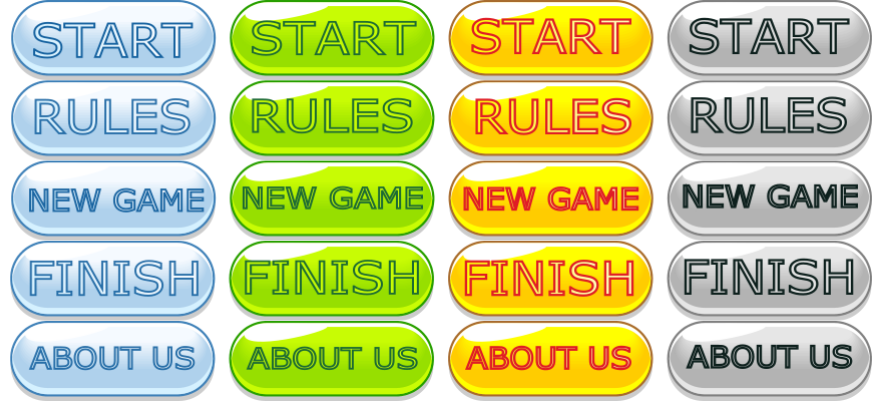
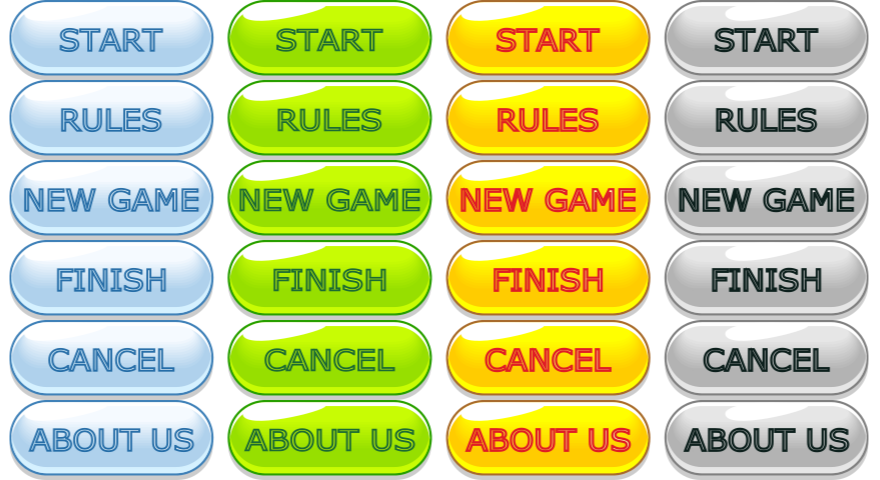
replaced bared JButtons with imaged buttons

diff --git a/MainMenuSettingsPanel.java b/MainMenuSettingsPanel.java
@@ -22,9 +22,12 @@ public class MainMenuSettingsPanel extends JPanel {
 	
 	private static final int BUTTON_IMAGE_WIDTH = 220;
 	private static final int BUTTON_IMAGE_HEIGHT = 80;
+	private static final int SMALL_BUTTON_IMAGE_WIDTH = 110;
+	private static final int SMALL_BUTTON_IMAGE_HEIGHT = 40;
 	private static final int MUSIC_BUTTON_IMAGE_WIDTH = 85;
 	private static final String BUTTONS_IMAGE_PATH = "images//buttons.png";
 	private static final String MUSIC_BUTTON_IMAGE_PATH = "images//music_button.png";
+	private static final String SMALL_BUTTONS_IMAGE_PATH = "images//sm_buttons.png";
 	private MainMenu mainMenu;
     private JButton startButton;
 	private JButton cancelButton;
@@ -37,18 +40,35 @@ public class MainMenuSettingsPanel extends JPanel {
 	private JButton boardLengthButton3;
 	private JButton[] boardLengthButtons;
     private JButton musicButton;
-    private BufferedImage allButtons;
+    private BufferedImage normalButtons;
     private BufferedImage musicButtons;
+    private BufferedImage smallButtons;
     private ImageIcon gStart;
     private ImageIcon yStart;
     private ImageIcon gCancel;
     private ImageIcon yCancel;
-    private ImageIcon gTeam;
-    private ImageIcon yTeam;
-    private ImageIcon gnTeam;
-    private ImageIcon gBoardLength;
-    private ImageIcon yBoardLength;
-    private ImageIcon gnBoardLenght;
+    private ImageIcon gTeam1;
+    private ImageIcon yTeam1;
+    private ImageIcon gnTeam1;
+    private ImageIcon gTeam2;
+    private ImageIcon yTeam2;
+    private ImageIcon gnTeam2;
+    private ImageIcon gTeam3;
+    private ImageIcon yTeam3;
+    private ImageIcon gnTeam3;
+    private ImageIcon gBoardLength1;
+    private ImageIcon yBoardLength1;
+    private ImageIcon gnBoardLength1;
+    private ImageIcon gBoardLength2;
+    private ImageIcon yBoardLength2;
+    private ImageIcon gnBoardLength2;
+    private ImageIcon gBoardLength3;
+    private ImageIcon yBoardLength3;
+    private ImageIcon gnBoardLength3;
+    private ImageIcon[] gTeams;
+    private ImageIcon[] gnTeams;
+    private ImageIcon[] gBoardLengths;
+    private ImageIcon[] gnBoardLengths;
     private ImageIcon gMusic;
     private ImageIcon yMusic;
     private ImageIcon gnMusic;
@@ -65,13 +85,40 @@ public class MainMenuSettingsPanel extends JPanel {
 	
 	private void initImages() {
     	try {
-    		allButtons = ImageIO.read(new File(BUTTONS_IMAGE_PATH));
+    		normalButtons = ImageIO.read(new File(BUTTONS_IMAGE_PATH));
     		musicButtons = ImageIO.read(new File(MUSIC_BUTTON_IMAGE_PATH));
-    		gStart = new ImageIcon(allButtons.getSubimage(3*BUTTON_IMAGE_WIDTH, 0*BUTTON_IMAGE_HEIGHT, BUTTON_IMAGE_WIDTH, BUTTON_IMAGE_HEIGHT));
-    		yStart = new ImageIcon(allButtons.getSubimage(2*BUTTON_IMAGE_WIDTH, 0*BUTTON_IMAGE_HEIGHT, BUTTON_IMAGE_WIDTH, BUTTON_IMAGE_HEIGHT));
+    		smallButtons = ImageIO.read(new File(SMALL_BUTTONS_IMAGE_PATH));
+    		gStart = new ImageIcon(normalButtons.getSubimage(3*BUTTON_IMAGE_WIDTH, 0*BUTTON_IMAGE_HEIGHT, BUTTON_IMAGE_WIDTH, BUTTON_IMAGE_HEIGHT));
+    		yStart = new ImageIcon(normalButtons.getSubimage(2*BUTTON_IMAGE_WIDTH, 0*BUTTON_IMAGE_HEIGHT, BUTTON_IMAGE_WIDTH, BUTTON_IMAGE_HEIGHT));
+    		gCancel = new ImageIcon(normalButtons.getSubimage(3*BUTTON_IMAGE_WIDTH, 4*BUTTON_IMAGE_HEIGHT, BUTTON_IMAGE_WIDTH, BUTTON_IMAGE_HEIGHT));
+    		yCancel = new ImageIcon(normalButtons.getSubimage(2*BUTTON_IMAGE_WIDTH, 4*BUTTON_IMAGE_HEIGHT, BUTTON_IMAGE_WIDTH, BUTTON_IMAGE_HEIGHT));
     		gMusic = new ImageIcon(musicButtons.getSubimage(3*MUSIC_BUTTON_IMAGE_WIDTH, 0, MUSIC_BUTTON_IMAGE_WIDTH, BUTTON_IMAGE_HEIGHT));
     		yMusic = new ImageIcon(musicButtons.getSubimage(2*MUSIC_BUTTON_IMAGE_WIDTH, 0, MUSIC_BUTTON_IMAGE_WIDTH, BUTTON_IMAGE_HEIGHT));
     		gnMusic = new ImageIcon(musicButtons.getSubimage(1*MUSIC_BUTTON_IMAGE_WIDTH, 0, MUSIC_BUTTON_IMAGE_WIDTH, BUTTON_IMAGE_HEIGHT));
+    		gTeam1 = new ImageIcon(smallButtons.getSubimage(3*SMALL_BUTTON_IMAGE_WIDTH, 0*SMALL_BUTTON_IMAGE_HEIGHT, SMALL_BUTTON_IMAGE_WIDTH, SMALL_BUTTON_IMAGE_HEIGHT));
+    		yTeam1 = new ImageIcon(smallButtons.getSubimage(2*SMALL_BUTTON_IMAGE_WIDTH, 0*SMALL_BUTTON_IMAGE_HEIGHT, SMALL_BUTTON_IMAGE_WIDTH, SMALL_BUTTON_IMAGE_HEIGHT));
+    		gnTeam1 = new ImageIcon(smallButtons.getSubimage(1*SMALL_BUTTON_IMAGE_WIDTH, 0*SMALL_BUTTON_IMAGE_HEIGHT, SMALL_BUTTON_IMAGE_WIDTH, SMALL_BUTTON_IMAGE_HEIGHT));
+    		gTeam2 = new ImageIcon(smallButtons.getSubimage(3*SMALL_BUTTON_IMAGE_WIDTH, 1*SMALL_BUTTON_IMAGE_HEIGHT, SMALL_BUTTON_IMAGE_WIDTH, SMALL_BUTTON_IMAGE_HEIGHT));
+    		yTeam2 = new ImageIcon(smallButtons.getSubimage(2*SMALL_BUTTON_IMAGE_WIDTH, 1*SMALL_BUTTON_IMAGE_HEIGHT, SMALL_BUTTON_IMAGE_WIDTH, SMALL_BUTTON_IMAGE_HEIGHT));
+    		gnTeam2 = new ImageIcon(smallButtons.getSubimage(1*SMALL_BUTTON_IMAGE_WIDTH, 1*SMALL_BUTTON_IMAGE_HEIGHT, SMALL_BUTTON_IMAGE_WIDTH, SMALL_BUTTON_IMAGE_HEIGHT));
+    		gTeam3 = new ImageIcon(smallButtons.getSubimage(3*SMALL_BUTTON_IMAGE_WIDTH, 2*SMALL_BUTTON_IMAGE_HEIGHT, SMALL_BUTTON_IMAGE_WIDTH, SMALL_BUTTON_IMAGE_HEIGHT));
+    		yTeam3 = new ImageIcon(smallButtons.getSubimage(2*SMALL_BUTTON_IMAGE_WIDTH, 2*SMALL_BUTTON_IMAGE_HEIGHT, SMALL_BUTTON_IMAGE_WIDTH, SMALL_BUTTON_IMAGE_HEIGHT));
+    		gnTeam3 = new ImageIcon(smallButtons.getSubimage(1*SMALL_BUTTON_IMAGE_WIDTH, 2*SMALL_BUTTON_IMAGE_HEIGHT, SMALL_BUTTON_IMAGE_WIDTH, SMALL_BUTTON_IMAGE_HEIGHT));
+    		gBoardLength1 = new ImageIcon(smallButtons.getSubimage(3*SMALL_BUTTON_IMAGE_WIDTH, 3*SMALL_BUTTON_IMAGE_HEIGHT, SMALL_BUTTON_IMAGE_WIDTH, SMALL_BUTTON_IMAGE_HEIGHT));
+    		yBoardLength1 = new ImageIcon(smallButtons.getSubimage(2*SMALL_BUTTON_IMAGE_WIDTH, 3*SMALL_BUTTON_IMAGE_HEIGHT, SMALL_BUTTON_IMAGE_WIDTH, SMALL_BUTTON_IMAGE_HEIGHT));
+    		gnBoardLength1 = new ImageIcon(smallButtons.getSubimage(1*SMALL_BUTTON_IMAGE_WIDTH, 3*SMALL_BUTTON_IMAGE_HEIGHT, SMALL_BUTTON_IMAGE_WIDTH, SMALL_BUTTON_IMAGE_HEIGHT));
+    		gBoardLength2 = new ImageIcon(smallButtons.getSubimage(3*SMALL_BUTTON_IMAGE_WIDTH, 4*SMALL_BUTTON_IMAGE_HEIGHT, SMALL_BUTTON_IMAGE_WIDTH, SMALL_BUTTON_IMAGE_HEIGHT));
+    		yBoardLength2 = new ImageIcon(smallButtons.getSubimage(2*SMALL_BUTTON_IMAGE_WIDTH, 4*SMALL_BUTTON_IMAGE_HEIGHT, SMALL_BUTTON_IMAGE_WIDTH, SMALL_BUTTON_IMAGE_HEIGHT));
+    		gnBoardLength2 = new ImageIcon(smallButtons.getSubimage(1*SMALL_BUTTON_IMAGE_WIDTH, 4*SMALL_BUTTON_IMAGE_HEIGHT, SMALL_BUTTON_IMAGE_WIDTH, SMALL_BUTTON_IMAGE_HEIGHT));
+    		gBoardLength3 = new ImageIcon(smallButtons.getSubimage(3*SMALL_BUTTON_IMAGE_WIDTH, 5*SMALL_BUTTON_IMAGE_HEIGHT, SMALL_BUTTON_IMAGE_WIDTH, SMALL_BUTTON_IMAGE_HEIGHT));
+    		yBoardLength3 = new ImageIcon(smallButtons.getSubimage(2*SMALL_BUTTON_IMAGE_WIDTH, 5*SMALL_BUTTON_IMAGE_HEIGHT, SMALL_BUTTON_IMAGE_WIDTH, SMALL_BUTTON_IMAGE_HEIGHT));
+    		gnBoardLength3 = new ImageIcon(smallButtons.getSubimage(1*SMALL_BUTTON_IMAGE_WIDTH, 5*SMALL_BUTTON_IMAGE_HEIGHT, SMALL_BUTTON_IMAGE_WIDTH, SMALL_BUTTON_IMAGE_HEIGHT));
+    		
+    		gTeams = new ImageIcon[]{gTeam1, gTeam2, gTeam3};
+    		gnTeams = new ImageIcon[]{gnTeam1, gnTeam2, gnTeam3};
+    		
+    		gBoardLengths = new ImageIcon[]{gBoardLength1, gBoardLength2, gBoardLength3};
+    		gnBoardLengths = new ImageIcon[]{gnBoardLength1, gnBoardLength2, gnBoardLength3};
 		} catch (IOException e) {
 			e.printStackTrace();
 		}
@@ -116,10 +163,12 @@ public class MainMenuSettingsPanel extends JPanel {
 	private class OnTeamsButtonClickedListener implements ActionListener {
 		@Override
 		public void actionPerformed(ActionEvent e) {
-			for (JButton jb : teamsButtons) {
-//				jb.setIcon(defaultIcon);
+			for (int i = 0; i < teamsButtons.length; i++) {
+				teamsButtons[i].setIcon(gTeams[i]);
+				if (((JButton) e.getSource()).equals(teamsButtons[i])) {
+					((JButton) e.getSource()).setIcon(gnTeams[i]);
+				}
 			}
-//			((JButton) e.getSource()).setIcon(defaultIcon);
 			String numberOfTeams = ((JButton) e.getSource()).getName();
 			ConfigurationManager.getConfigurationManager().getConfiguration().setNumberOfTeams(Integer.parseInt(numberOfTeams));
 			System.out.println("# of Teams: " + ConfigurationManager.getConfigurationManager().getConfiguration().getNumberOfTeams());
@@ -129,10 +178,12 @@ public class MainMenuSettingsPanel extends JPanel {
 	private class OnBoardLengthButtonClickedListener implements ActionListener {
 		@Override
 		public void actionPerformed(ActionEvent e) {
-			for (JButton jb : boardLengthButtons) {
-//				jb.setIcon(defaultIcon);
+			for (int i = 0; i < boardLengthButtons.length; i++) {
+				boardLengthButtons[i].setIcon(gBoardLengths[i]);
+				if (((JButton) e.getSource()).equals(boardLengthButtons[i])) {
+					((JButton) e.getSource()).setIcon(gnBoardLengths[i]);
+				}
 			}
-//			((JButton) e.getSource()).setIcon(defaultIcon);
 			String boardLength = ((JButton) e.getSource()).getName();
 			ConfigurationManager.getConfigurationManager().getConfiguration().setBoardLenght(boardLength);
 			System.out.println("Board Length: " + ConfigurationManager.getConfigurationManager().getConfiguration().getBoardLenght());
@@ -156,29 +207,28 @@ public class MainMenuSettingsPanel extends JPanel {
 		startButton.setRolloverEnabled(true);
 		startButton.addActionListener(new OnStartButtonClickedListener());
 
-//		cancelButton = new javax.swing.JButton(gRules);
-		cancelButton = new javax.swing.JButton("CANCEL");
-//		cancelButton.setBorder(BorderFactory.createEmptyBorder());
-//		cancelButton.setContentAreaFilled(false);
-//		cancelButton.setRolloverIcon(yRules);
-//		cancelButton.setRolloverEnabled(true);
+		cancelButton = new javax.swing.JButton(gCancel);
+		cancelButton.setBorder(BorderFactory.createEmptyBorder());
+		cancelButton.setContentAreaFilled(false);
+		cancelButton.setRolloverIcon(yCancel);
+		cancelButton.setRolloverEnabled(true);
 		cancelButton.addActionListener(new OnCancelButtonClickedListener());
 		
-		teamsButton1 = new javax.swing.JButton("2");
-//		teamsButton1.setBorder(BorderFactory.createEmptyBorder());
-//		teamsButton1.setContentAreaFilled(false);
+		teamsButton1 = new javax.swing.JButton(gTeam1);
+		teamsButton1.setBorder(BorderFactory.createEmptyBorder());
+		teamsButton1.setContentAreaFilled(false);
 		teamsButton1.setSize(new java.awt.Dimension(110, 40));
 		teamsButton1.setName("2");
 		
-		teamsButton2 = new javax.swing.JButton("3");
-//		teamsButton2.setBorder(BorderFactory.createEmptyBorder());
-//		teamsButton2.setContentAreaFilled(false);
+		teamsButton2 = new javax.swing.JButton(gTeam2);
+		teamsButton2.setBorder(BorderFactory.createEmptyBorder());
+		teamsButton2.setContentAreaFilled(false);
 		teamsButton2.setSize(new java.awt.Dimension(110, 40));
 		teamsButton2.setName("3");
 		
-		teamsButton3 = new javax.swing.JButton("4");
-//		teamsButton3.setBorder(BorderFactory.createEmptyBorder());
-//		teamsButton3.setContentAreaFilled(false);
+		teamsButton3 = new javax.swing.JButton(gTeam3);
+		teamsButton3.setBorder(BorderFactory.createEmptyBorder());
+		teamsButton3.setContentAreaFilled(false);
 		teamsButton3.setSize(new java.awt.Dimension(110, 40));
 		teamsButton3.setName("4");
         
@@ -187,21 +237,21 @@ public class MainMenuSettingsPanel extends JPanel {
 			jb.addActionListener(new OnTeamsButtonClickedListener());
 		}
 		
-		boardLengthButton1 = new javax.swing.JButton("Short");
-//		boardLengthButton1.setBorder(BorderFactory.createEmptyBorder());
-//		boardLengthButton1.setContentAreaFilled(false);
+		boardLengthButton1 = new javax.swing.JButton(gBoardLength1);
+		boardLengthButton1.setBorder(BorderFactory.createEmptyBorder());
+		boardLengthButton1.setContentAreaFilled(false);
 		boardLengthButton1.setSize(new java.awt.Dimension(110, 40));
 		boardLengthButton1.setName("v");
 		
-		boardLengthButton2 = new javax.swing.JButton("Medium");
-//		boardLengthButton2.setBorder(BorderFactory.createEmptyBorder());
-//		boardLengthButton2.setContentAreaFilled(false);
+		boardLengthButton2 = new javax.swing.JButton(gBoardLength2);
+		boardLengthButton2.setBorder(BorderFactory.createEmptyBorder());
+		boardLengthButton2.setContentAreaFilled(false);
 		boardLengthButton2.setSize(new java.awt.Dimension(110, 40));
 		boardLengthButton2.setName("Medium");
 		
-		boardLengthButton3 = new javax.swing.JButton("Long");
-//		boardLengthButton3.setBorder(BorderFactory.createEmptyBorder());
-//		boardLengthButton3.setContentAreaFilled(false);
+		boardLengthButton3 = new javax.swing.JButton(gBoardLength3);
+		boardLengthButton3.setBorder(BorderFactory.createEmptyBorder());
+		boardLengthButton3.setContentAreaFilled(false);
 		boardLengthButton3.setSize(new java.awt.Dimension(110, 40));
 		boardLengthButton3.setName("Long");
         

diff --git a/MainMenuButtonsPanel.java b/MainMenuButtonsPanel.java
@@ -23,7 +23,7 @@ public class MainMenuButtonsPanel extends JPanel {
 	private JButton rulesButton;
     private JButton aboutUsButton;
     private JButton musicButton;
-    private BufferedImage allButtons;
+    private BufferedImage normalButtons;
     private BufferedImage musicButtons;
     private ImageIcon gNewGame;
     private ImageIcon yNewGame;
@@ -46,14 +46,14 @@ public class MainMenuButtonsPanel extends JPanel {
     
 	private void initImages() {
     	try {
-    		allButtons = ImageIO.read(new File(BUTTONS_IMAGE_PATH));
+    		normalButtons = ImageIO.read(new File(BUTTONS_IMAGE_PATH));
     		musicButtons = ImageIO.read(new File(MUSIC_BUTTON_IMAGE_PATH));
-    		gNewGame = new ImageIcon(allButtons.getSubimage(3*BUTTON_IMAGE_WIDTH, 2*BUTTON_IMAGE_HEIGHT, BUTTON_IMAGE_WIDTH, BUTTON_IMAGE_HEIGHT));
-    		yNewGame = new ImageIcon(allButtons.getSubimage(2*BUTTON_IMAGE_WIDTH, 2*BUTTON_IMAGE_HEIGHT, BUTTON_IMAGE_WIDTH, BUTTON_IMAGE_HEIGHT));
-    		gRules = new ImageIcon(allButtons.getSubimage(3*BUTTON_IMAGE_WIDTH, 1*BUTTON_IMAGE_HEIGHT, BUTTON_IMAGE_WIDTH, BUTTON_IMAGE_HEIGHT));
-    		yRules = new ImageIcon(allButtons.getSubimage(2*BUTTON_IMAGE_WIDTH, 1*BUTTON_IMAGE_HEIGHT, BUTTON_IMAGE_WIDTH, BUTTON_IMAGE_HEIGHT));
-    		gAboutUs = new ImageIcon(allButtons.getSubimage(3*BUTTON_IMAGE_WIDTH, 4*BUTTON_IMAGE_HEIGHT, BUTTON_IMAGE_WIDTH, BUTTON_IMAGE_HEIGHT));
-    		yAboutUs = new ImageIcon(allButtons.getSubimage(2*BUTTON_IMAGE_WIDTH, 4*BUTTON_IMAGE_HEIGHT, BUTTON_IMAGE_WIDTH, BUTTON_IMAGE_HEIGHT));
+    		gNewGame = new ImageIcon(normalButtons.getSubimage(3*BUTTON_IMAGE_WIDTH, 2*BUTTON_IMAGE_HEIGHT, BUTTON_IMAGE_WIDTH, BUTTON_IMAGE_HEIGHT));
+    		yNewGame = new ImageIcon(normalButtons.getSubimage(2*BUTTON_IMAGE_WIDTH, 2*BUTTON_IMAGE_HEIGHT, BUTTON_IMAGE_WIDTH, BUTTON_IMAGE_HEIGHT));
+    		gRules = new ImageIcon(normalButtons.getSubimage(3*BUTTON_IMAGE_WIDTH, 1*BUTTON_IMAGE_HEIGHT, BUTTON_IMAGE_WIDTH, BUTTON_IMAGE_HEIGHT));
+    		yRules = new ImageIcon(normalButtons.getSubimage(2*BUTTON_IMAGE_WIDTH, 1*BUTTON_IMAGE_HEIGHT, BUTTON_IMAGE_WIDTH, BUTTON_IMAGE_HEIGHT));
+    		gAboutUs = new ImageIcon(normalButtons.getSubimage(3*BUTTON_IMAGE_WIDTH, 5*BUTTON_IMAGE_HEIGHT, BUTTON_IMAGE_WIDTH, BUTTON_IMAGE_HEIGHT));
+    		yAboutUs = new ImageIcon(normalButtons.getSubimage(2*BUTTON_IMAGE_WIDTH, 5*BUTTON_IMAGE_HEIGHT, BUTTON_IMAGE_WIDTH, BUTTON_IMAGE_HEIGHT));
     		gMusic = new ImageIcon(musicButtons.getSubimage(3*MUSIC_BUTTON_IMAGE_WIDTH, 0, MUSIC_BUTTON_IMAGE_WIDTH, BUTTON_IMAGE_HEIGHT));
     		yMusic = new ImageIcon(musicButtons.getSubimage(2*MUSIC_BUTTON_IMAGE_WIDTH, 0, MUSIC_BUTTON_IMAGE_WIDTH, BUTTON_IMAGE_HEIGHT));
     		gnMusic = new ImageIcon(musicButtons.getSubimage(1*MUSIC_BUTTON_IMAGE_WIDTH, 0, MUSIC_BUTTON_IMAGE_WIDTH, BUTTON_IMAGE_HEIGHT));
